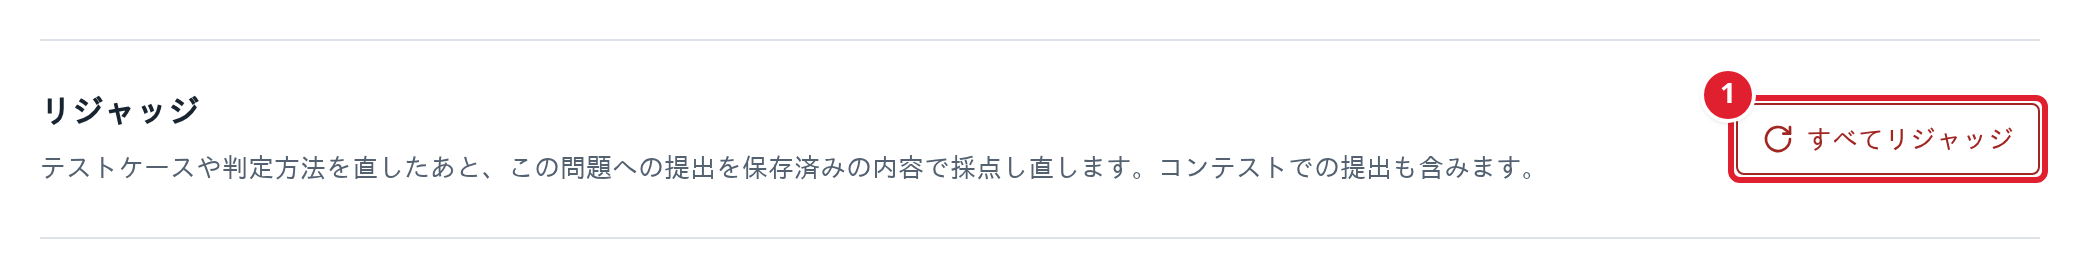
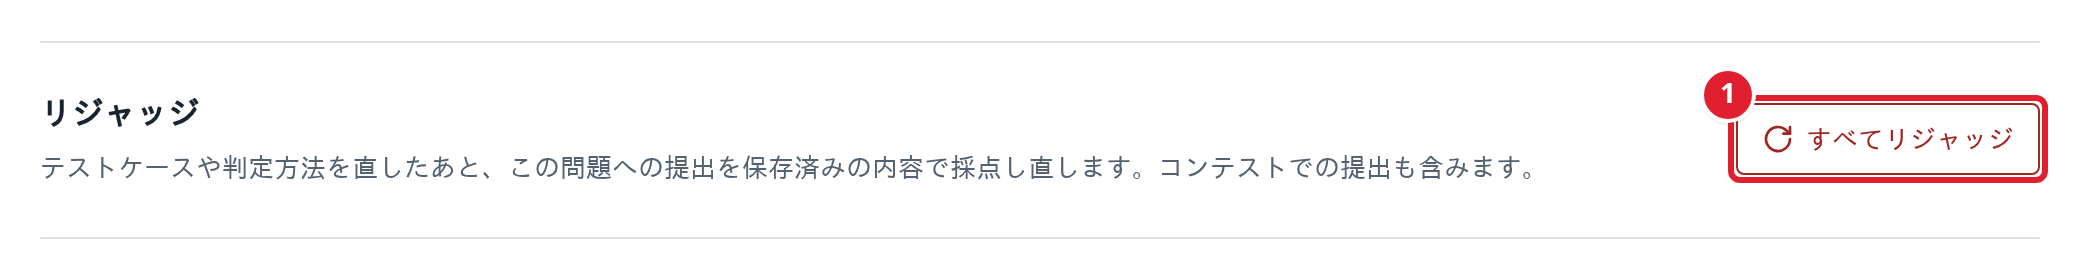
docs: ガイドに共同作成者とスタッフの説明を加え、画面写真を撮り直す
コンテストの作り方に共同作成者の節を加え、作成者、問題の作者、テスターをスタッフとして説明する。
コンテストのルールでは、共同作成者を含むスタッフと、スタッフを務めた人が参加できないことを書く。
問題の作り方では、コンテストの作成者が結果確定まで問題を編集できることと、テスターリンクの説明を改める。

Changed region(s): [[0.0, 0.1159, 1.0, 0.1739], [0.0312, 0.3478, 0.0938, 0.4638]]

diff --git a/web/docs-screenshots/guides.spec.ts b/web/docs-screenshots/guides.spec.ts
@@ -162,6 +162,27 @@ test('contest editor', async ({ page }) => {
   await shoot(page, 'contest-editor')
 })
 
+test('contest setters', async ({ page }) => {
+  await page.setViewportSize({ width: 1200, height: 900 })
+  const contestId = 'cccccccc-cccc-4ccc-8ccc-cccccccccccc'
+  await page.route(`**/api/my/contests/${contestId}/draft`, route => route.fulfill({ json: {
+    id: contestId, version: 2, updatedAt, issues: [], authors: ['alice', 'bob'], owner: true, problems: [],
+    draft: { title: 'ShareOJ Beginner Contest 001', description: '', startsAt: '2026-11-01T12:00:00Z', durationMinutes: 100, penaltyMinutes: 5, problems: [] },
+  } }))
+  await page.route(`**/api/my/contests/${contestId}/setter-invitation`, route => route.fulfill({ json: { token: 'ABCDEFGHIJKLMNOPQRSTUVWXYZ234567' } }))
+  await page.goto(`/my/contests/${shortId(contestId)}?section=manage`)
+  await page.getByRole('button', { name: 'リンクを発行', exact: true }).click()
+  const row = page.locator('.setters-row')
+  // The link uses the page origin; show the production one.
+  await row.locator('#setter-link').evaluate((input: HTMLInputElement) => { input.value = input.value.replace(location.origin, 'https://www.share-oj.net') })
+  await annotate(page, [
+    { target: row.getByRole('button', { name: 'リンクをコピー', exact: true }), badge: 'top-right' },
+    { target: row.getByRole('button', { name: 'リンクを作り直す', exact: true }), badge: 'top-right' },
+    { target: row.getByRole('button', { name: 'bobを共同作成者から外す', exact: true }), badge: 'top-right' },
+  ])
+  await shoot(page, 'contest-setters', [row])
+})
+
 test('featured application', async ({ page }) => {
   await page.setViewportSize({ width: 1280, height: 800 })
   await page.route('**/api/my/featured', route => route.fulfill({ json: { items: [] } }))

diff --git a/web/app/content/docs/hosting-contests.md b/web/app/content/docs/hosting-contests.md
@@ -1,6 +1,6 @@
 ## 出題する問題を用意する {#problems}
 
-コンテストに出題できるのは、自分が作った問題か、テスターとして参加している問題のうち、次の条件をすべて満たすものです。
+コンテストに出題できるのは、[作成者](#setters)の誰かが作った問題か、テスターとして参加している問題のうち、次の条件をすべて満たすものです。
 
 - 公開しておらず、公開を予約していない。
 - 定期便に応募していない。
@@ -8,6 +8,7 @@
 - タイトル、本文、難易度、テストケース1件以上、解説がそろっている。スペシャルジャッジかインタラクティブでは、判定コードも必要です（[公開できるかを確かめる](/docs/authoring#readiness)）。
 
 先に公開や応募、ほかのコンテストへの登録をした問題は、それを取り消すまで登録できません。
+問題を追加できるのは、その問題の作者かテスターである作成者だけです。
 
 ## コンテストを作る {#create}
 
@@ -23,7 +24,7 @@
 開始日時は使っている端末のタイムゾーンで入力し、公開されるページでは日本時間で表示します。
 
 編集画面は自動では保存しないので、⑤「保存」で保存してください。
-初めて保存すると、自分だけが見られる下書きになり、作成枠を1件使います。
+初めて保存すると、作成者だけが見られる下書きになり、作成枠を1件使います。
 
 ## 公開する {#publish}
 
@@ -47,16 +48,47 @@
 
 下書きのコンテストは「下書きを削除」で削除できますが、公開したコンテストは削除も中止もできません。
 
-## テスターと解説 {#testers}
+## 共同作成者 {#setters}
+
+![コンテスト管理の共同作成者。①リンクをコピー、②リンクを作り直す、③外す](/images/docs/contest-setters.png)
+
+コンテストは複数人で作れます。
+下書きを作った人を**オーナー**、招待リンクから加わった人を**共同作成者**と呼び、合わせて**作成者**（コンテストセッター）と呼びます。
+
+[編集画面](#create)の「コンテスト管理」で「リンクを発行」を押すと招待リンクが表示されるので、①でコピーして渡します。
+リンクを開いた人が「共同作成者になる」を押すと共同作成者に加わり、オーナーに通知が届きます。
+招待は下書きの段階からでき、公開したあとも、コンテストが終了するまで受け付けます。
+リンクは1つのコンテストに1本で、作成者なら誰でも表示できます。
+表示したあとのボタンは②「リンクを作り直す」に変わり、押すとそれまでのリンクは使えなくなります。
+
+共同作成者は、オーナーと同じように、開始前の設定の編集、下書きの保存と公開、問題の追加と削除、招待リンクの発行ができます。
+誰が公開しても、オーナーは変わりません。
+共同作成者を外すことと、下書きを削除することは、オーナーだけができます。
+オーナーが③「外す」を押すと、その人は共同作成者から外れ、招待リンクも作り直されます。
+共同作成者は、「共同作成者から抜ける」で自分から抜けられます。
+開始後も、コンテストのページの「共同作成者を管理」から、外したり抜けたりできます。
+
+ほかの作成者の問題は、下書きの段階では、題名と準備状況だけが見えます。
+公開したコンテストの問題は、コンテストが終了するまで、作成者全員がテスターと同じように編集やリジャッジができます。
+ただし、この権限では問題のテスターリンクを発行できません。
+作成者が抜けて、どの作成者も作者・テスターではない問題が残ると、その問題を外すまで保存も公開もできません。
+
+参加登録した人は、コンテストが終了するまで共同作成者に加われません。
+共同作成者から抜けた人と外された人は、そのコンテストに参加できません。
+
+## スタッフと解説 {#testers}
+
+作成者と、コンテストの問題の作者とテスターを、まとめて**スタッフ**と呼びます。
+スタッフは開催中もすべての提出を見られますが、参加登録はできず、公式順位にも載りません。
 
 テスターは問題ごとに招待します（[テスターを招く](/docs/authoring#testers)）。
-テスターは開始前から担当の問題を確認できますが、参加登録はできず、公式順位にも載りません。
-問題の作者も同じです。
+テスターと問題の作者は、開始前から担当の問題を確認できます。
 参加登録した人は、コンテストが終了するまで、そのコンテストの問題のテスターになれません。
 その人が作者かテスターである問題は、コンテストに加えられません。
+開始前にコンテストから外した問題の作者とテスターも、そのコンテストには参加できません。
 
 コンテストの解説には、各問題の作問画面の「解説」を使います。
-終了前はコンテストの作成者と、各問題の作者とテスターだけが読め、終了後は誰でも読めます。
+終了前は作成者と、各問題の作者とテスターだけが読め、終了後は誰でも読めます。
 
 ## 終了したあと {#after}
 

diff --git a/web/app/content/docs/contest-rules.md b/web/app/content/docs/contest-rules.md
@@ -19,8 +19,9 @@
 順位は合計得点の高い順に決まります。
 同点の場合は、開始から最後に得点した提出を受け付けるまでの時間に誤答ペナルティを加えた時間が短い方が上位で、これも同じなら同順位です。
 
-コンテストの作成者（**コンテストセッター**）と、コンテスト内のいずれかの問題の作者とテスターは、公式順位の対象外です。
-開始前に外された問題の作者とテスターも、そのコンテストには参加できません。
+コンテストの作成者（**コンテストセッター**。共同作成者を含みます）と、コンテスト内のいずれかの問題の作者とテスターを、まとめて**スタッフ**と呼びます。
+スタッフは公式順位の対象外で、参加登録もできません。
+スタッフを務めた人は、共同作成者から抜けたり外されたりしたあとも、担当の問題が開始前にコンテストから外れたあとも、そのコンテストには参加できません。
 
 ## 誤答ペナルティ {#penalty}
 
@@ -35,9 +36,9 @@
 
 ## 問題と提出の公開範囲 {#visibility}
 
-開始前の問題は、セッターと、その問題の作者とテスターだけが閲覧できます。
+開始前の問題は、作成者と、その問題の作者とテスターだけが閲覧できます。
 開始時刻になると全員に公開し、終了後は解説とともに通常の問題ページにも公開します。
 
-開催中にほかの人の提出を見られるのは、セッターと、各問題の作者とテスターだけです。
+開催中にほかの人の提出を見られるのは、スタッフだけです。
 終了後は、開催時間中の提出と練習提出を誰でも見られます。
 開始前のテスト提出とサンプル検証は、終了後も公開しません。

diff --git a/web/app/content/docs/authoring.md b/web/app/content/docs/authoring.md
@@ -123,8 +123,12 @@
 リンクを開いた人が「許可する」を押すと、その問題のテスターになります。
 
 テスターは、非公開の問題文、解説、テストケースを閲覧し、提出できます。
-問題の編集、削除、リジャッジ、非公開に戻す操作と、自分のコンテストへの登録もできます。
+問題の編集、削除、リジャッジ、非公開に戻す操作と、セッターを務めるコンテストへの登録もできます。
 公開と公開予約、定期便への応募は、作者だけができます。
+
+公開したコンテストに問題が入っていると、そのコンテストの作成者全員が、コンテストが終了するまでテスターと同じように問題を編集できます（[共同作成者](/docs/hosting-contests#setters)）。
+招待したテスターとは別に、「問題管理」の「コンテストの作成者」に表示します。
+この人たちはテスターリンクを発行できず、終了後は編集できなくなります。
 
 ## 解説とユーザー解説 {#editorials}
 
